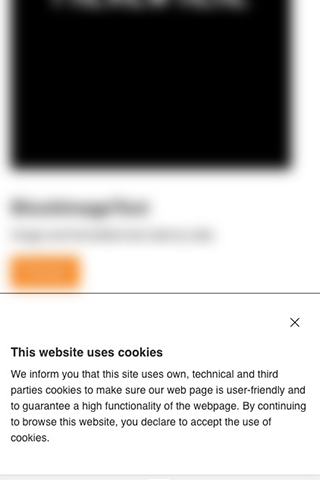
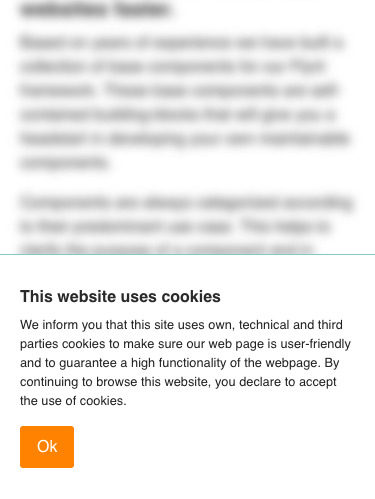
docs(BlockCookieNotice): updated preview screenshots and readme

diff --git a/Components/BlockCookieNotice/README.md b/Components/BlockCookieNotice/README.md
@@ -1,31 +1,14 @@
-## Block Cookie Notice README
-
-### Title:
-
-Block Cookie Notice
+Title: Block Cookie Notice
 
 ---
 
-### Category:
-
-Block
+Category: Block
 
 ---
 
-### Tags:
-
-block, cookie, notice
+Tags: block, cookie, notice
 
 ---
 
-### Description:
+Text: On a first visit, the website visitor will see this notice at the bottom of the screen, until dismissed with a click on the button. Custom formatted text and a button label can be set in the "Translatable Options" tab.
 
-A cookie notice who can edited in translatabale options. There you can set the content in a WYSIWYG and set a Close Button Label. The label will not shown up, you will see a close icon. The cookie expired date is set by default to 365 days.
-
----
-
-### Fields:
-
-contentHtml, closeButtonLabel
-
----
